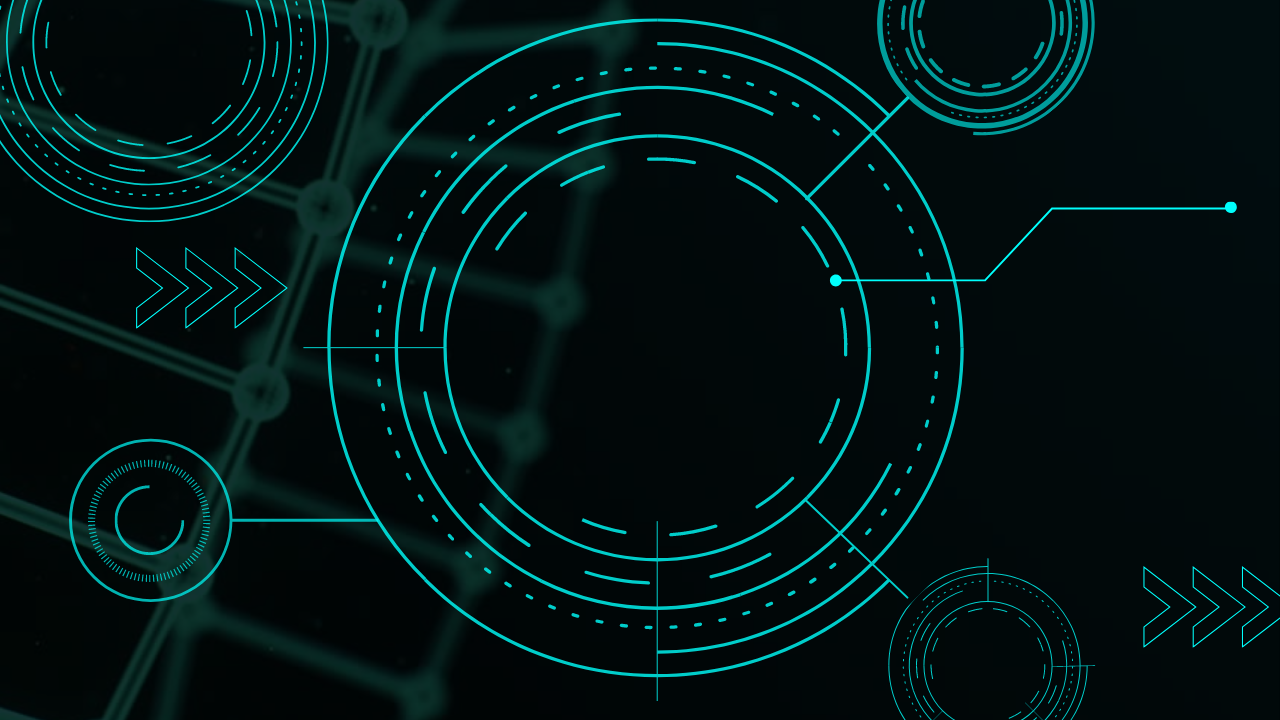
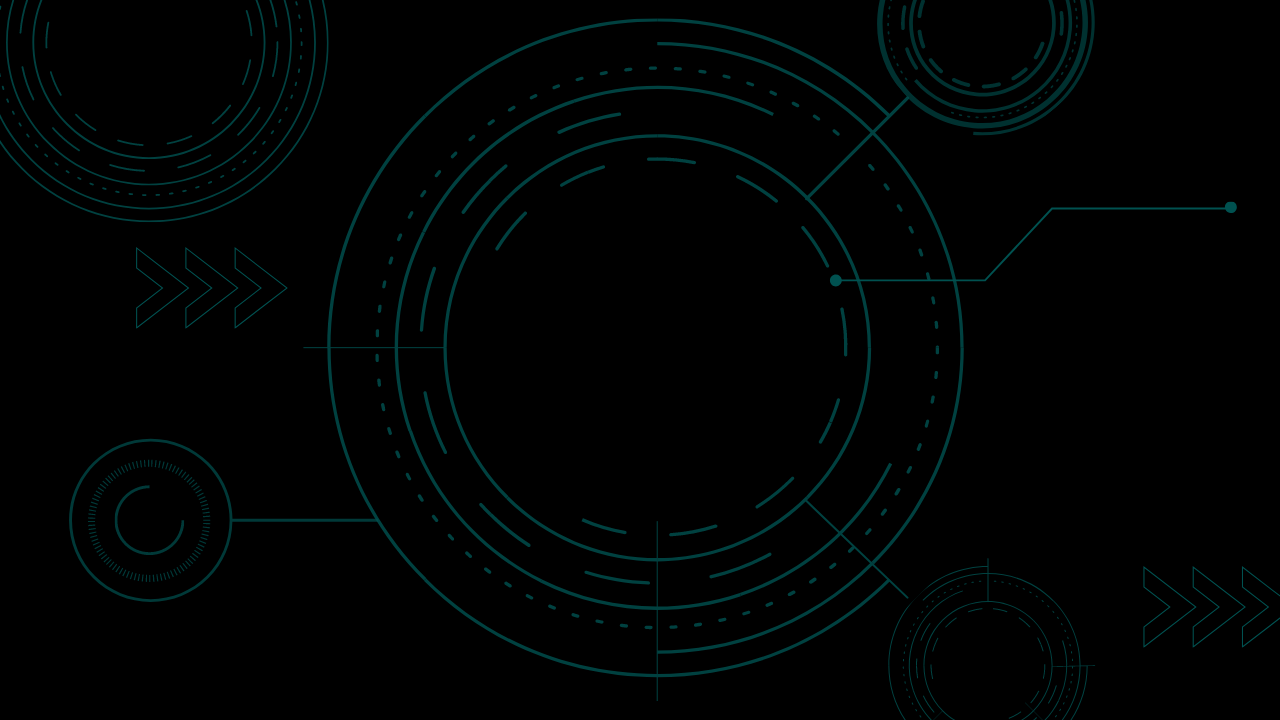
background

diff --git a/style.css b/style.css
@@ -1,5 +1,5 @@
 body	{ background:url(imgs/procodebackground.png) top right no-repeat; background-attachment:fixed;
-  max-width: 80%; }
+  background-size: cover; }
 
   p {
     border: 2px solid darkblue;
